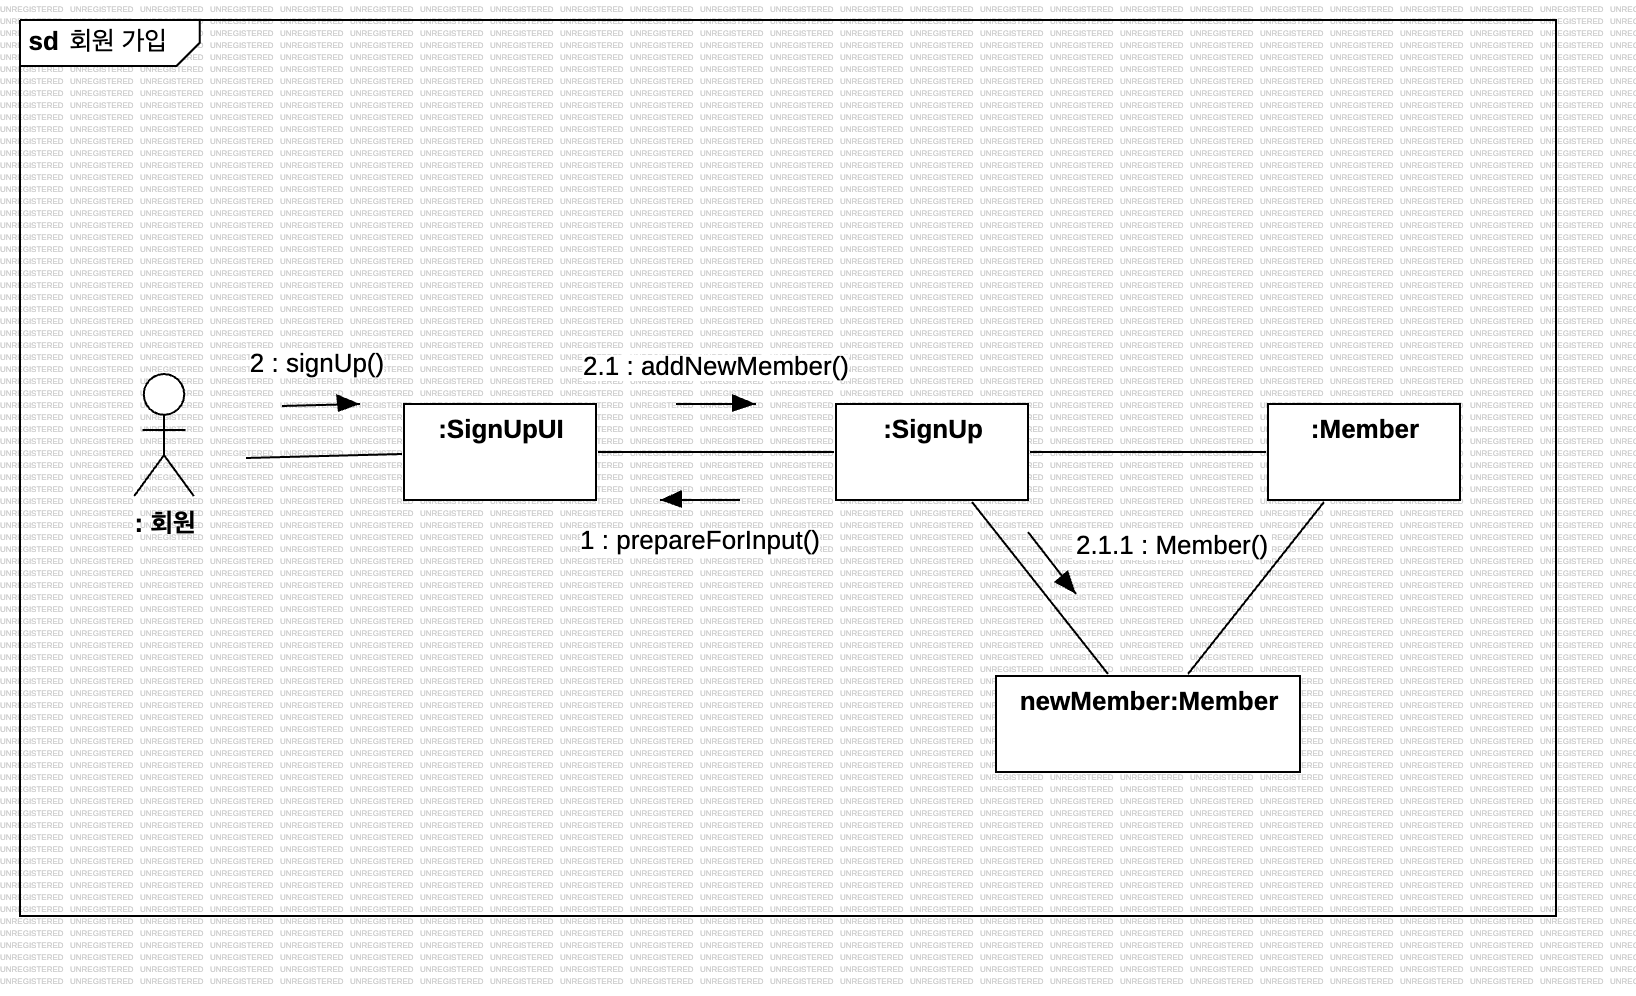
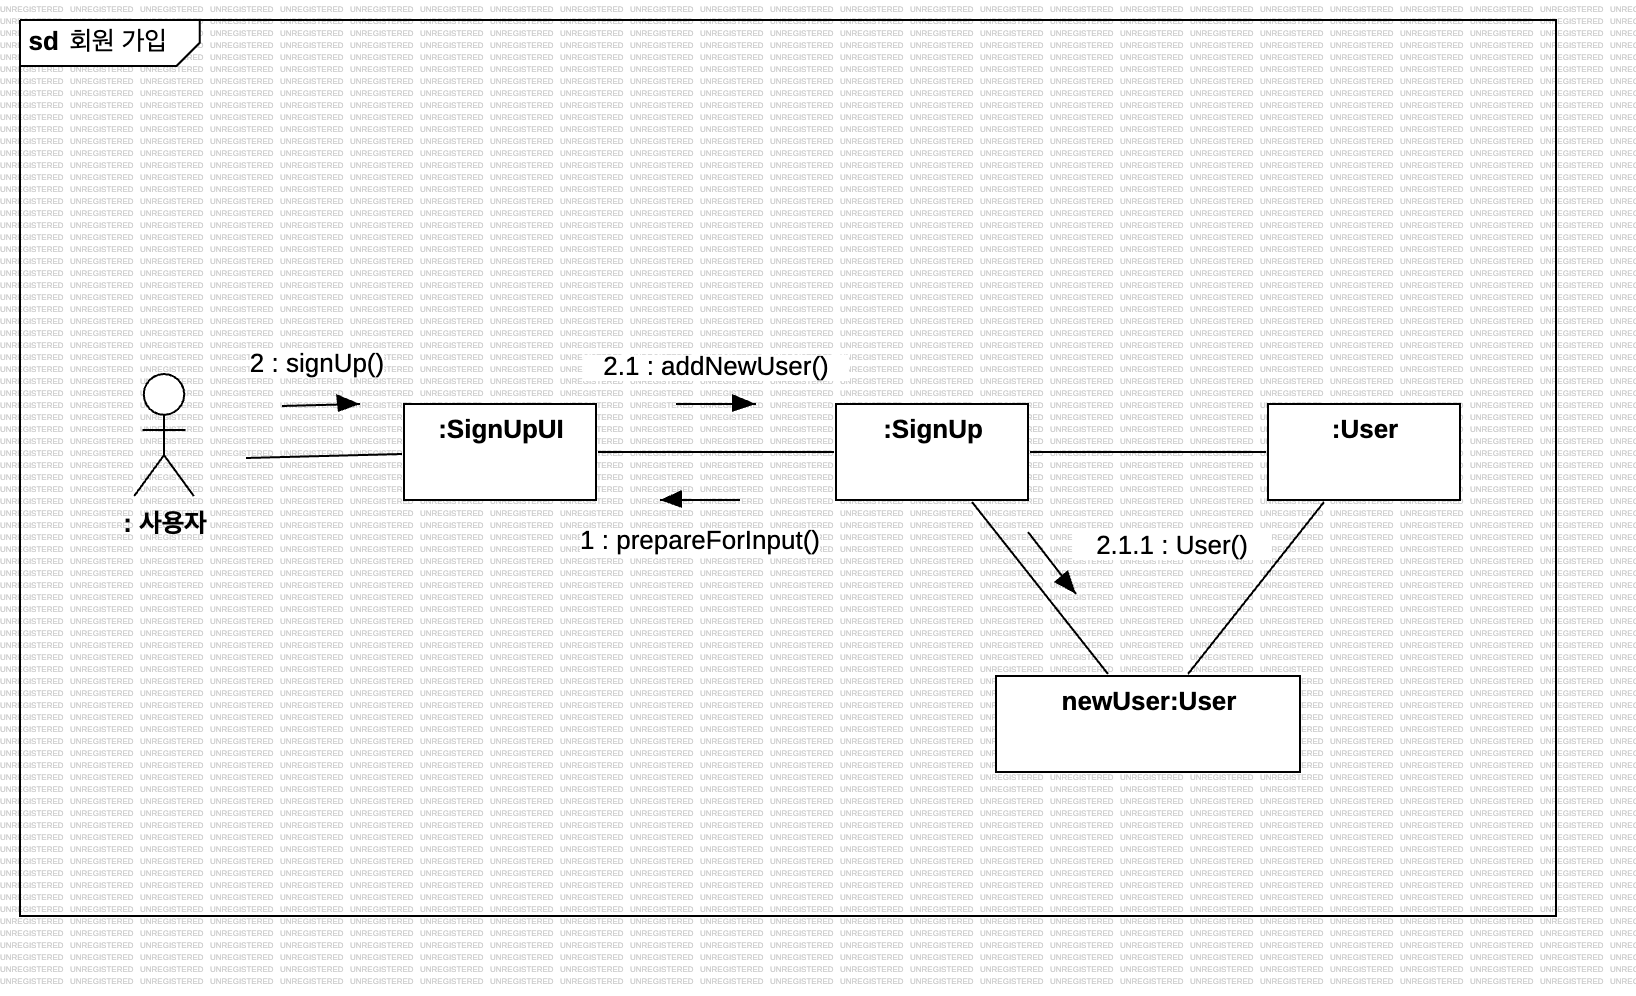
docs: 회원가입의 actor를 사용자로 변경

diff --git a/use-case-descriptions.md b/use-case-descriptions.md
@@ -2,7 +2,7 @@
 
 | **Actor Action** | **System Response** |
 | --- | --- |
-| 1. 회원은 “1 1 [ID] [비밀번호] [전화번호]” 형식으로 회원의 정보를 입력한다. | 2. 시스템은 “1.1 회원가입”과 바로 아래줄에 “> [ID] [비밀번호] [전화번호]” 형식으로 회원의 정보를 출력한다. |
+| 1. 사용자는 “1 1 [ID] [비밀번호] [전화번호]” 형식으로 정보를 입력한다. | 2. 시스템은 “1.1 회원가입”과 바로 아래줄에 “> [ID] [비밀번호] [전화번호]” 형식으로 사용자의 정보를 출력한다. |
 
 ### 로그인
 
